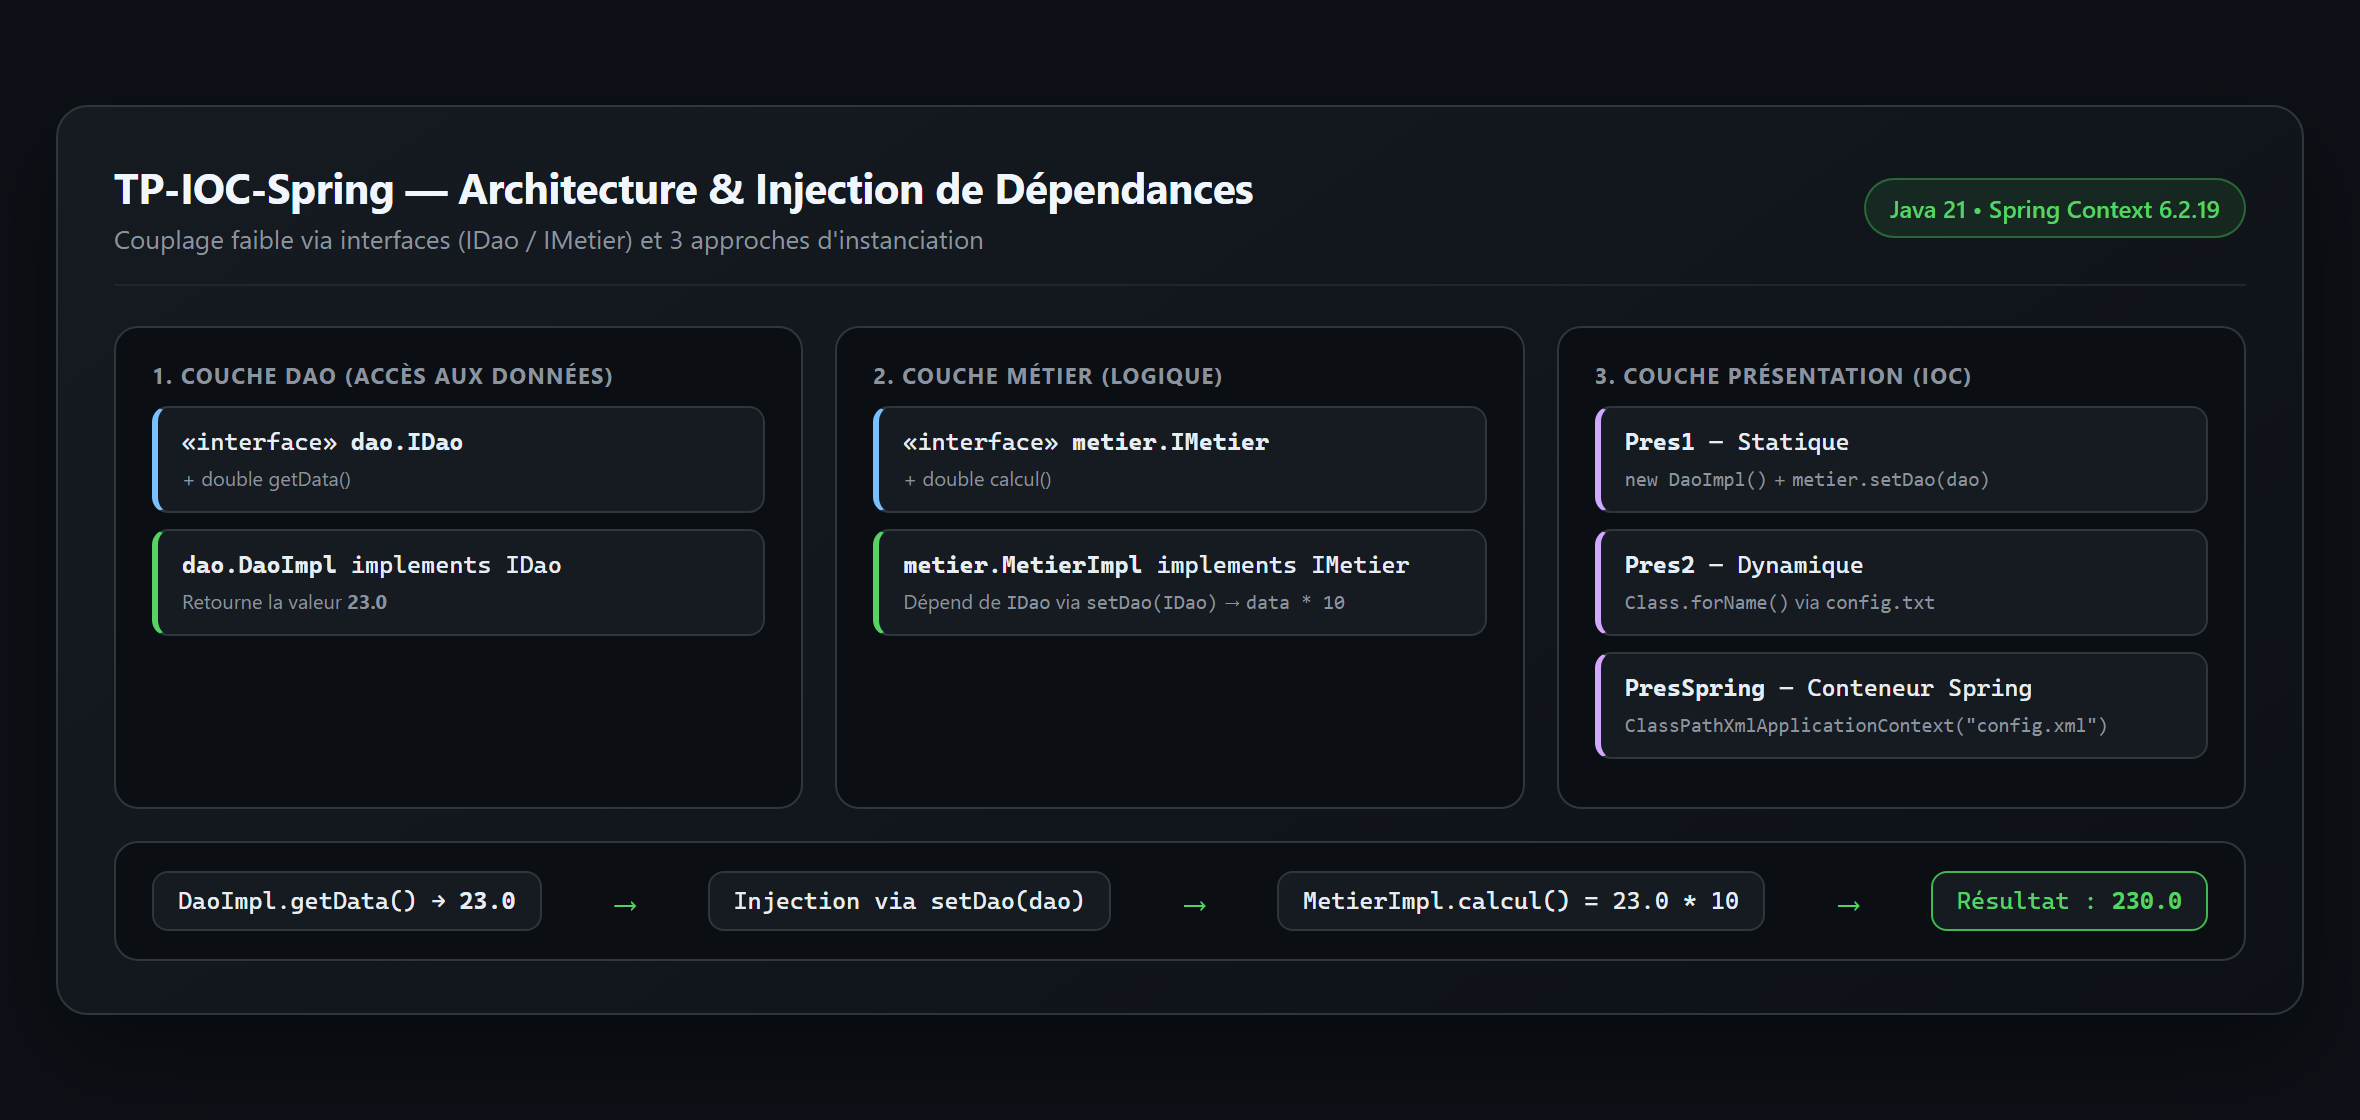
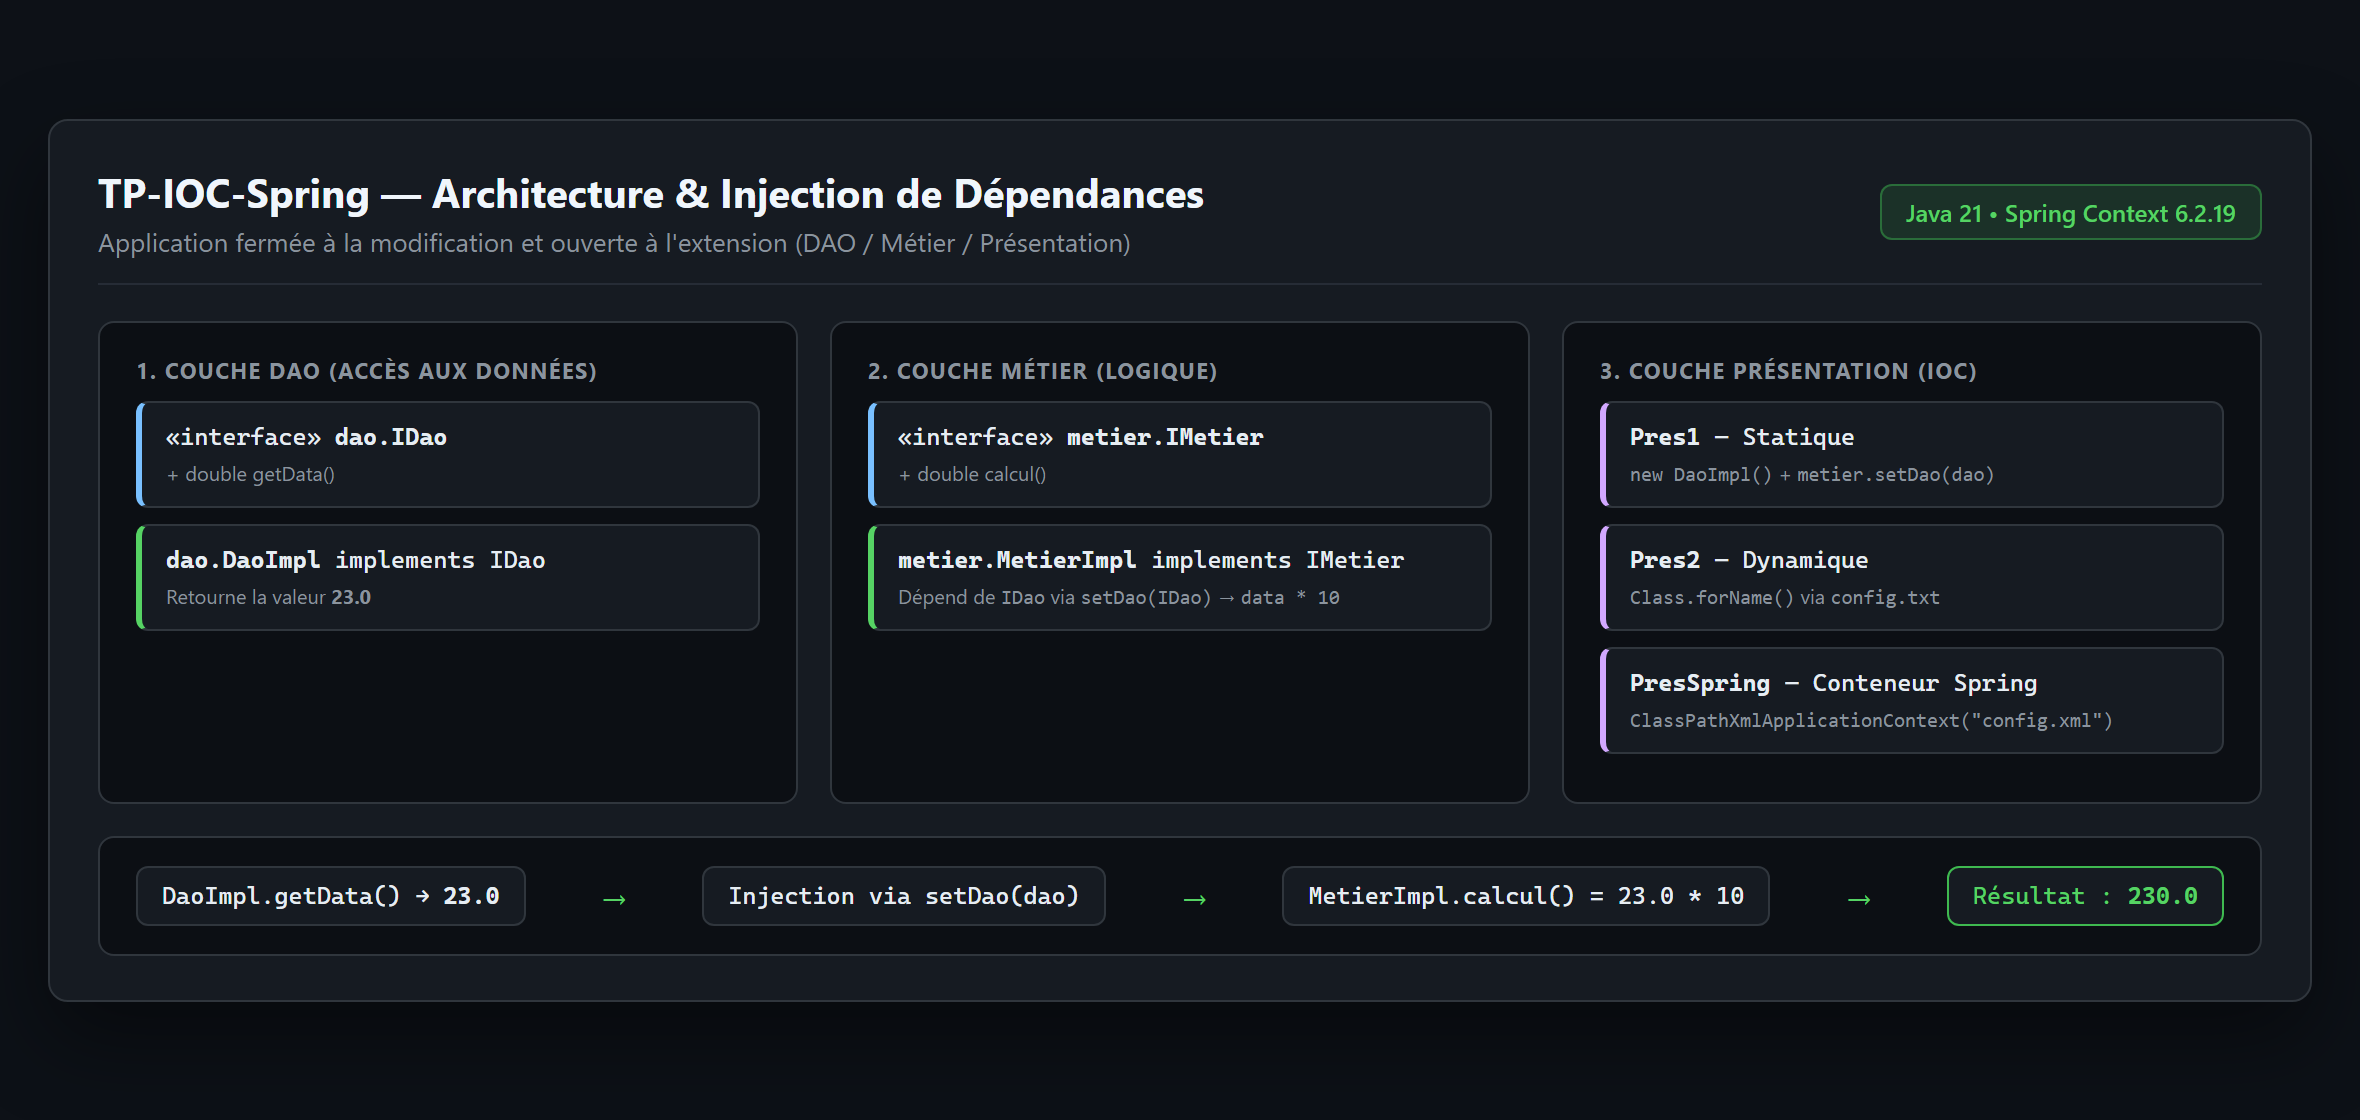
docs: captures style Windows et README inspiré de bdcc-ioc

diff --git a/README.md b/README.md
@@ -5,148 +5,144 @@
 [![Java](https://img.shields.io/badge/Java-21-orange?logo=openjdk&logoColor=white)](https://adoptium.net/)
 [![Spring Framework](https://img.shields.io/badge/Spring%20Context-6.2.19-6DB33F?logo=spring&logoColor=white)](https://spring.io/)
 [![Maven](https://img.shields.io/badge/Build-Maven-C71A36?logo=apachemaven&logoColor=white)](https://maven.apache.org/)
+[![OS](https://img.shields.io/badge/Environnement-Windows%2011-0078D6?logo=windows11&logoColor=white)]()
 
-*Projet pédagogique illustrant le principe d'Inversion de Contrôle (IoC) et le passage progressif d'un couplage fort vers un couplage faible avec Java et Spring.*
+**Sujet :** Application Java **fermée à la modification et ouverte à l'extension** — Couplage faible & Injection des dépendances (Statique, Dynamique par réflexion, Spring XML).
 
 </div>
 
 ---
 
-## Sommaire
+## 📑 Sommaire
 
-- [Architecture du projet](#-architecture-du-projet)
-- [Structure des fichiers](#-structure-des-fichiers)
-- [Galerie des captures d'écran](#-galerie-des-captures-décran)
-  - [1. Vue d'ensemble de l'architecture IoC](#1-vue-densemble-de-larchitecture-ioc)
-  - [2. Instanciation statique (`Pres1`)](#2-instanciation-statique-pres1)
-  - [3. Instanciation dynamique par réflexion (`Pres2`)](#3-instanciation-dynamique-par-réflexion-pres2)
-  - [4. Injection de dépendances avec Spring XML (`PresSpring`)](#4-injection-de-dépendances-avec-spring-xml-presspring)
-- [Comparatif des 3 approches](#-comparatif-des-3-approches)
-- [Prérequis & Exécution](#-prérequis--exécution)
-- [Captures personnelles supplémentaires](#-captures-personnelles-supplémentaires)
-
----
-
-## Architecture du projet
-
-L'application est découpée en trois couches indépendantes reliées par des interfaces afin de garantir la maintenabilité et l'évolutivité du code :
-
-1. **Couche DAO (`dao`)** : définit le contrat `IDao` (`getData()`) et son implémentation `DaoImpl` qui retourne `23.0`.
-2. **Couche Métier (`metier`)** : définit le contrat `IMetier` (`calcul()`) et son implémentation `MetierImpl` qui reçoit une dépendance `IDao` via `setDao(IDao dao)` et retourne `data * 10` (`230.0`).
-3. **Couche Présentation (`presentation`)** : met en œuvre trois stratégies d'instanciation et d'injection de dépendances (`Pres1`, `Pres2`, `PresSpring`).
+1. [Objectif](#-1-objectif)
+2. [Architecture du projet](#-2-architecture-du-projet)
+3. [Structure des fichiers](#-3-structure-des-fichiers)
+4. [Réalisation étape par étape](#-4-réalisation-étape-par-étape)
+   - [Couches DAO & Métier (`IDao`, `DaoImpl`, `IMetier`, `MetierImpl`)](#couches-dao--métier)
+   - [a) Injection par instanciation statique (`Pres1`)](#a-par-instanciation-statique-pres1)
+   - [b) Injection par instanciation dynamique (`Pres2`)](#b-par-instanciation-dynamique-pres2)
+   - [c) Injection avec Spring IoC XML (`PresSpring`)](#c-avec-le-framework-spring-xml-presspring)
+5. [Tableau récapitulatif](#-5-tableau-récapitulatif)
+6. [Prérequis & Exécution](#-6-prérequis--exécution)
+7. [Conclusion](#-7-conclusion)
 
 ---
 
-## Structure des fichiers
+## 🎯 1. Objectif
 
-```text
-TP-IOC-Spring/
-├── pom.xml                                  # Configuration Maven (Java 21, spring-context 6.2.19)
-├── screenshots/                             # Captures d'écran organisées pour le README
-│   ├── 01-architecture-ioc.png
-│   ├── 02-pres1-statique.png
-│   ├── 03-pres2-dynamique.png
-│   └── 04-pres3-spring-xml.png
-└── src/main/
-    ├── java/
-    │   ├── dao/
-    │   │   ├── IDao.java                    # Interface d'accès aux données
-    │   │   └── DaoImpl.java                 # Implémentation retournant 23.0
-    │   ├── metier/
-    │   │   ├── IMetier.java                 # Interface métier
-    │   │   └── MetierImpl.java              # Calcul métier (data * 10) avec injection par setter
-    │   ├── presentation/
-    │   │   ├── Pres1.java                   # Instanciation statique (new)
-    │   │   ├── Pres2.java                   # Instanciation dynamique (réflexion + config.txt)
-    │   │   └── PresSpring.java              # Conteneur IoC Spring (ClassPathXmlApplicationContext)
-    │   └── org/example/
-    │       └── Main.java                    # Classe modèle initiale
-    └── resources/
-        ├── config.txt                       # Noms des classes pour Pres2
-        └── config.xml                       # Déclaration des beans Spring pour PresSpring
-```
+Montrer comment concevoir une application Java **fermée à la modification** et **ouverte à l'extension**, facilitant la maintenance et l'évolution :
+
+1. **Le couplage faible** : dépendre des *interfaces* (`IDao`, `IMetier`) et non des implémentations concrètes.
+2. **L'injection des dépendances** : un objet reçoit ses dépendances de l'extérieur (via `setDao(...)`) au lieu de les instancier lui-même avec `new`.
+
+Avec l'**Inversion de Contrôle (IoC)**, le développeur se concentre sur la logique **métier**, tandis que le framework (**Spring**) gère la création des objets et le câblage technique.
 
 ---
 
-## Galerie des captures d'écran
-
-### 1. Vue d'ensemble de l'architecture IoC
+## 🏗 2. Architecture du projet
 
 ![Architecture IoC et flux de dépendances](screenshots/01-architecture-ioc.png)
 
 ---
 
-### 2. Instanciation statique (`Pres1`)
+## 📂 3. Structure des fichiers
 
-Instanciation directe des classes concrètes avec `new` (`DaoImpl`, `MetierImpl`) puis injection manuelle via `metier.setDao(dao)`.
-
-| Classe exécutée | Résultat attendu |
-| :--- | :--- |
-| `presentation.Pres1` | `Résultat du calcul : 230.0` |
-
-![Exécution de Pres1 - Instanciation statique](screenshots/02-pres1-statique.png)
-
----
-
-### 3. Instanciation dynamique par réflexion (`Pres2`)
-
-Lecture des noms complets des classes depuis `src/main/resources/config.txt`, chargement dynamique via `Class.forName(...)` et invocation de `setDao` par réflexion (`java.lang.reflect.Method`).
-
-| Classe exécutée | Configuration | Résultat attendu |
-| :--- | :--- | :--- |
-| `presentation.Pres2` | `src/main/resources/config.txt` | `Résultat du calcul par instanciation dynamique : 230.0` |
-
-![Exécution de Pres2 - Instanciation dynamique](screenshots/03-pres2-dynamique.png)
-
----
-
-### 4. Injection de dépendances avec Spring XML (`PresSpring`)
-
-Délégation de l'instanciation et du câblage des beans au conteneur léger Spring via `ClassPathXmlApplicationContext("config.xml")`.
-
-| Classe exécutée | Configuration | Résultat attendu |
-| :--- | :--- | :--- |
-| `presentation.PresSpring` | `src/main/resources/config.xml` | `Résultat du calcul avec Spring : 230.0` |
-
-![Exécution de PresSpring - Spring IoC XML](screenshots/04-pres3-spring-xml.png)
+```text
+TP-IOC-Spring/
+├── pom.xml                                  # Maven (Java 21, spring-context 6.2.19)
+├── screenshots/                             # Captures Windows (architecture, code & console)
+│   ├── 01-architecture-ioc.png
+│   ├── 02-couches-dao-metier.png
+│   ├── 03-pres1-statique.png
+│   ├── 04-pres2-dynamique.png
+│   └── 05-pres3-spring-xml.png
+└── src/main/
+    ├── java/
+    │   ├── dao/
+    │   │   ├── IDao.java                    # Interface d'accès aux données (getData)
+    │   │   └── DaoImpl.java                 # Implémentation retournant 23.0
+    │   ├── metier/
+    │   │   ├── IMetier.java                 # Interface métier (calcul)
+    │   │   └── MetierImpl.java              # Calcul métier (data * 10) avec setDao(IDao)
+    │   ├── presentation/
+    │   │   ├── Pres1.java                   # Instanciation statique (new)
+    │   │   ├── Pres2.java                   # Instanciation dynamique (réflexion + config.txt)
+    │   │   └── PresSpring.java              # Conteneur IoC Spring (config.xml)
+    │   └── org/example/
+    │       └── Main.java                    # Point d'entrée modèle
+    └── resources/
+        ├── config.txt                       # Configuration des classes pour Pres2
+        └── config.xml                       # Configuration des beans Spring pour PresSpring
+```
 
 ---
 
-## Comparatif des 3 approches
+## 🛠 4. Réalisation étape par étape
 
-| Critère | `Pres1` (Statique) | `Pres2` (Réflexion) | `PresSpring` (Spring IoC) |
+### Couches DAO & Métier
+
+- **`IDao` / `DaoImpl`** : définit le contrat `getData()` et retourne la valeur `23.0`.
+- **`IMetier` / `MetierImpl`** : déclare un attribut privé de type interface `IDao` (non initialisé afin d'éviter le couplage fort), injecté via `setDao(IDao dao)`. La méthode `calcul()` retourne `dao.getData() * 10` soit **`230.0`**.
+
+![Couches DAO et Métier](screenshots/02-couches-dao-metier.png)
+
+---
+
+### a) Par instanciation statique (`Pres1`)
+
+Dans `Pres1.java`, les objets `DaoImpl` et `MetierImpl` sont instanciés directement avec `new`, puis liés via `metier.setDao(dao)`.
+
+- **Couches DAO & Métier** : fermées à la modification et ouvertes à l'extension.
+- **Couche Présentation** : **encore ouverte à la modification** (changer d'implémentation impose de modifier le code Java et recompiler).
+
+![Exécution de Pres1 - Instanciation statique](screenshots/03-pres1-statique.png)
+
+---
+
+### b) Par instanciation dynamique (`Pres2`)
+
+Dans `Pres2.java`, les noms complets des classes sont lus depuis `src/main/resources/config.txt`, instanciés dynamiquement avec `Class.forName(...).getDeclaredConstructor().newInstance()`, et reliés par réflexion (`getMethod("setDao", ...).invoke(...)`).
+
+- La couche présentation devient **fermée à la modification et ouverte à l'extension** : il suffit de modifier `config.txt` sans toucher au code Java.
+
+![Exécution de Pres2 - Instanciation dynamique](screenshots/04-pres2-dynamique.png)
+
+---
+
+### c) Avec le framework Spring XML (`PresSpring`)
+
+Dans `PresSpring.java`, le conteneur Spring (`ClassPathXmlApplicationContext("config.xml")`) lit la déclaration des beans (`dao` et `metier`), les instancie et injecte automatiquement la dépendance `dao` via `<property name="dao" ref="dao"/>`.
+
+![Exécution de PresSpring - Spring IoC XML](screenshots/05-pres3-spring-xml.png)
+
+---
+
+## 📊 5. Tableau récapitulatif
+
+| Technique | Qui crée les objets ? | Changer d'implémentation DAO | Couche présentation fermée à la modification ? |
 | :--- | :--- | :--- | :--- |
-| **Type de couplage** | Couplage fort | Couplage faible | Couplage faible |
-| **Source de configuration** | Code Java (`new`) | Fichier texte `config.txt` | Fichier XML `config.xml` |
-| **Mécanisme d'injection** | Appel direct `setDao()` | `Method.invoke(...)` | Conteneur Spring (`<property>`) |
-| **Évolutivité** | Recompilation nécessaire | Modification de `config.txt` | Modification de `config.xml` |
+| **Instanciation statique (`Pres1`)** | Le développeur (`new`) | Modifier le code Java et recompiler | Non |
+| **Instanciation dynamique (`Pres2`)** | Le développeur (réflexion) | Modifier `src/main/resources/config.txt` | Oui |
+| **Spring XML (`PresSpring`)** | Le conteneur Spring | Modifier `src/main/resources/config.xml` | Oui |
 
 ---
 
-## Prérequis & Exécution
+## ⚙ 6. Prérequis & Exécution
 
-- **JDK 21**
-- **Apache Maven 3.9+** (ou via IntelliJ IDEA)
+- **JDK 21** (`java -version`)
+- **Apache Maven 3.9+** ou **IntelliJ IDEA (Windows)**
 
-```bash
-# 1. Cloner le dépôt
+```powershell
 git clone https://github.com/laqsour/TP-IOC-Spring.git
 cd TP-IOC-Spring
-
-# 2. Compiler le projet
 mvn compile
 ```
 
-Exécutez ensuite la classe souhaitée depuis votre IDE (`Pres1`, `Pres2` ou `PresSpring`) ou via Maven (`exec:java`).
+Exécutez ensuite au choix `presentation.Pres1`, `presentation.Pres2` ou `presentation.PresSpring` depuis IntelliJ IDEA (bouton ▶) ou en ligne de commande.
 
 ---
 
-## Captures personnelles supplémentaires
+## 🏁 7. Conclusion
 
-> Vous pouvez ajouter vos propres captures d'écran (ex. IntelliJ IDEA, exécutions locales) dans le dossier [`screenshots/`](screenshots/) puis décommenter ou compléter le tableau ci-dessous :
-
-```markdown
-| Capture IDE / Structure | Exécution console locale |
-| :---: | :---: |
-| ![Capture IDE](screenshots/votre-capture-ide.png) | ![Console locale](screenshots/votre-capture-console.png) |
-```
+Pour concevoir une application **fermée à la modification et ouverte à l'extension**, il faut combiner le **couplage faible** (dépendre uniquement d'interfaces) et l'**injection des dépendances**. Avec Spring IoC, la création et le câblage des objets sont délégués au conteneur, permettant au développeur de se concentrer sur le code métier.
